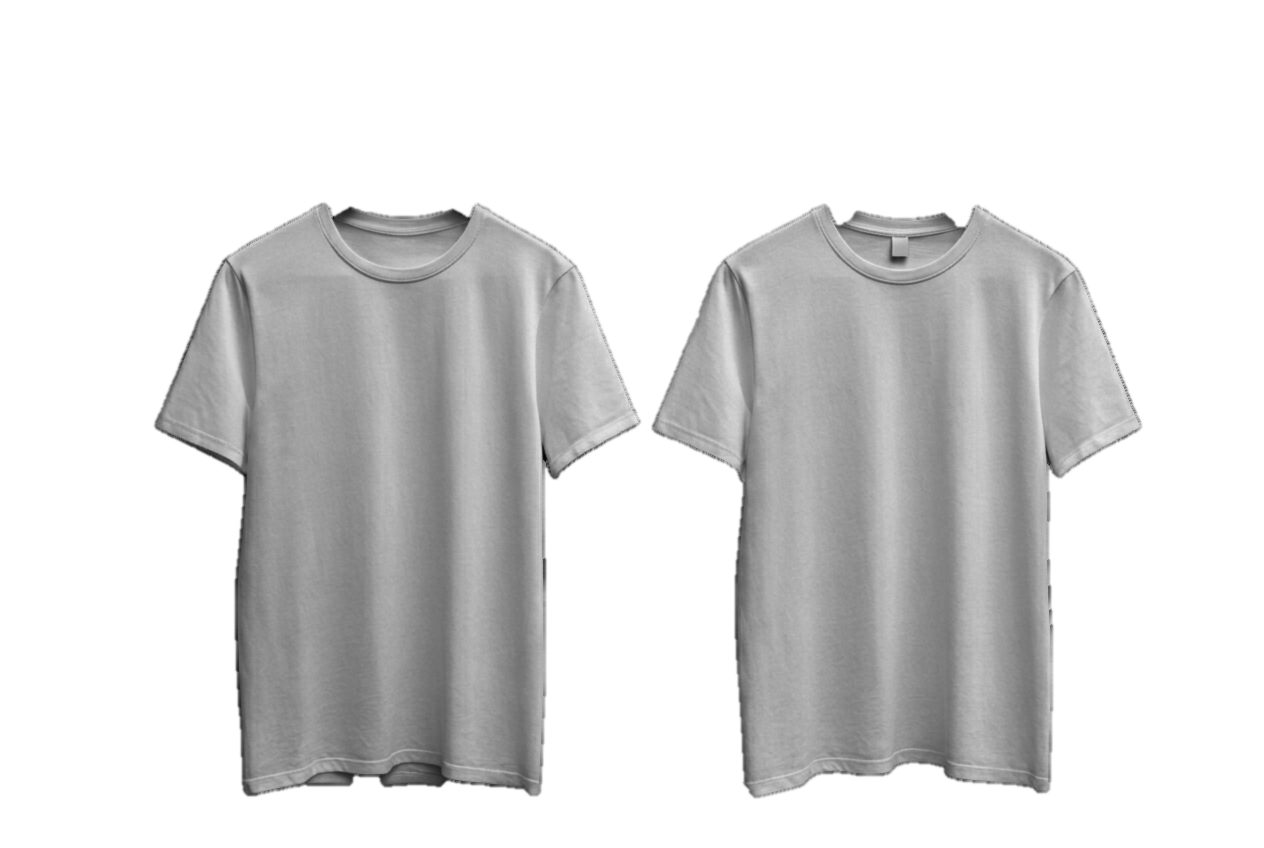
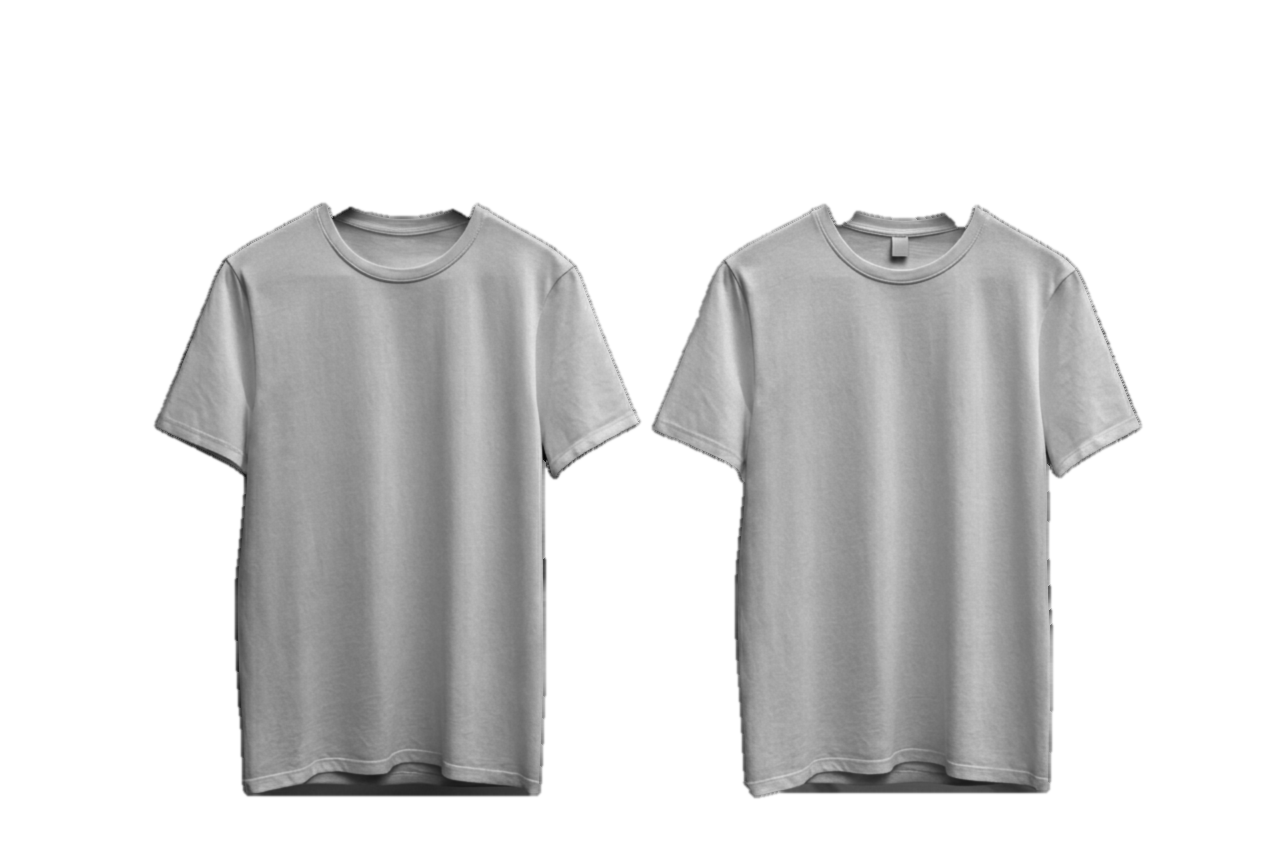
regalos: escala de mockups corregida (A4 y mangas) + ruedo de remera

Changed region(s): [[0.6171, 0.8892, 0.8331, 0.9505], [0.216, 0.8892, 0.432, 0.9505]]

diff --git a/public/assets/regalos/photo-mockup.js b/public/assets/regalos/photo-mockup.js
@@ -12,28 +12,32 @@
 //   m.viewOf(zoneId) → 'front' | 'back'
 
 // Calibración por foto (coordenadas en px de la imagen original, 1264×848).
-// pxcm = píxeles por centímetro (ancho de pecho: remera 52 cm, buzo 54 cm, talle L).
+// pxcm = píxeles por centímetro. Las prendas generadas son más largas que las reales,
+// así que se usa el promedio geométrico entre la escala por ancho de pecho y por largo
+// (remera L 52 × 74 cm, buzo L 59 × 70 cm): así el A4 no queda chico a lo alto.
+const K_REMERA = Math.sqrt((297 / 52) * (575 / 74));   // ≈ 6,66 px/cm
+const K_BUZO = Math.sqrt((355 / 59) * (500 / 70));      // ≈ 6,56 px/cm
 export const GARMENTS = {
   remera: {
     photo: '/assets/regalos/mockups/remera.jpg', map: '/assets/regalos/mockups/remera-map.png',
-    pxcm: { front: 297 / 52, back: 303 / 52 },
+    pxcm: { front: K_REMERA, back: K_REMERA },
     crops: { front: [73, 180, 640, 640], back: [576, 180, 640, 640] },
     zones: {
-      front:    { view: 'front', cx: 455, cy: 372, rot: 0 },     // pecho izquierdo (lado del corazón)
-      back:     { view: 'back',  cx: 896, top: 288, rot: 0 },    // A4 centrado bajo el cuello
-      sleeve_r: { view: 'front', cx: 201, cy: 428, rot: 27 },    // manga derecha (a la izquierda del que mira)
-      sleeve_l: { view: 'front', cx: 588, cy: 430, rot: -24 },
+      front:    { view: 'front', cx: 456, cy: 362, rot: 0 },     // pecho izquierdo (lado del corazón)
+      back:     { view: 'back',  cx: 896, top: 290, rot: 0 },    // A4 centrado, justo bajo el cuello
+      sleeve_r: { view: 'front', cx: 206, cy: 392, rot: 27 },    // centro de la manga derecha
+      sleeve_l: { view: 'front', cx: 586, cy: 394, rot: -24 },
     },
   },
   buzo: {
     photo: '/assets/regalos/mockups/buzo.jpg', map: '/assets/regalos/mockups/buzo-map.png',
-    pxcm: { front: 318 / 54, back: 318 / 54 },
+    pxcm: { front: K_BUZO, back: K_BUZO },
     crops: { front: [30, 140, 640, 640], back: [586, 140, 640, 640] },
     zones: {
-      front:    { view: 'front', cx: 445, cy: 345, rot: 0 },
-      back:     { view: 'back',  cx: 906, top: 345, rot: 0 },    // debajo de la capucha
-      sleeve_r: { view: 'front', cx: 148, cy: 455, rot: -4 },
-      sleeve_l: { view: 'front', cx: 553, cy: 455, rot: 4 },
+      front:    { view: 'front', cx: 428, cy: 352, rot: 0 },     // al costado del cordón
+      back:     { view: 'back',  cx: 906, top: 336, rot: 0 },    // arranca debajo de la capucha
+      sleeve_r: { view: 'front', cx: 149, cy: 364, rot: -6 },    // parte de arriba del brazo
+      sleeve_l: { view: 'front', cx: 554, cy: 364, rot: 6 },
     },
   },
 };
